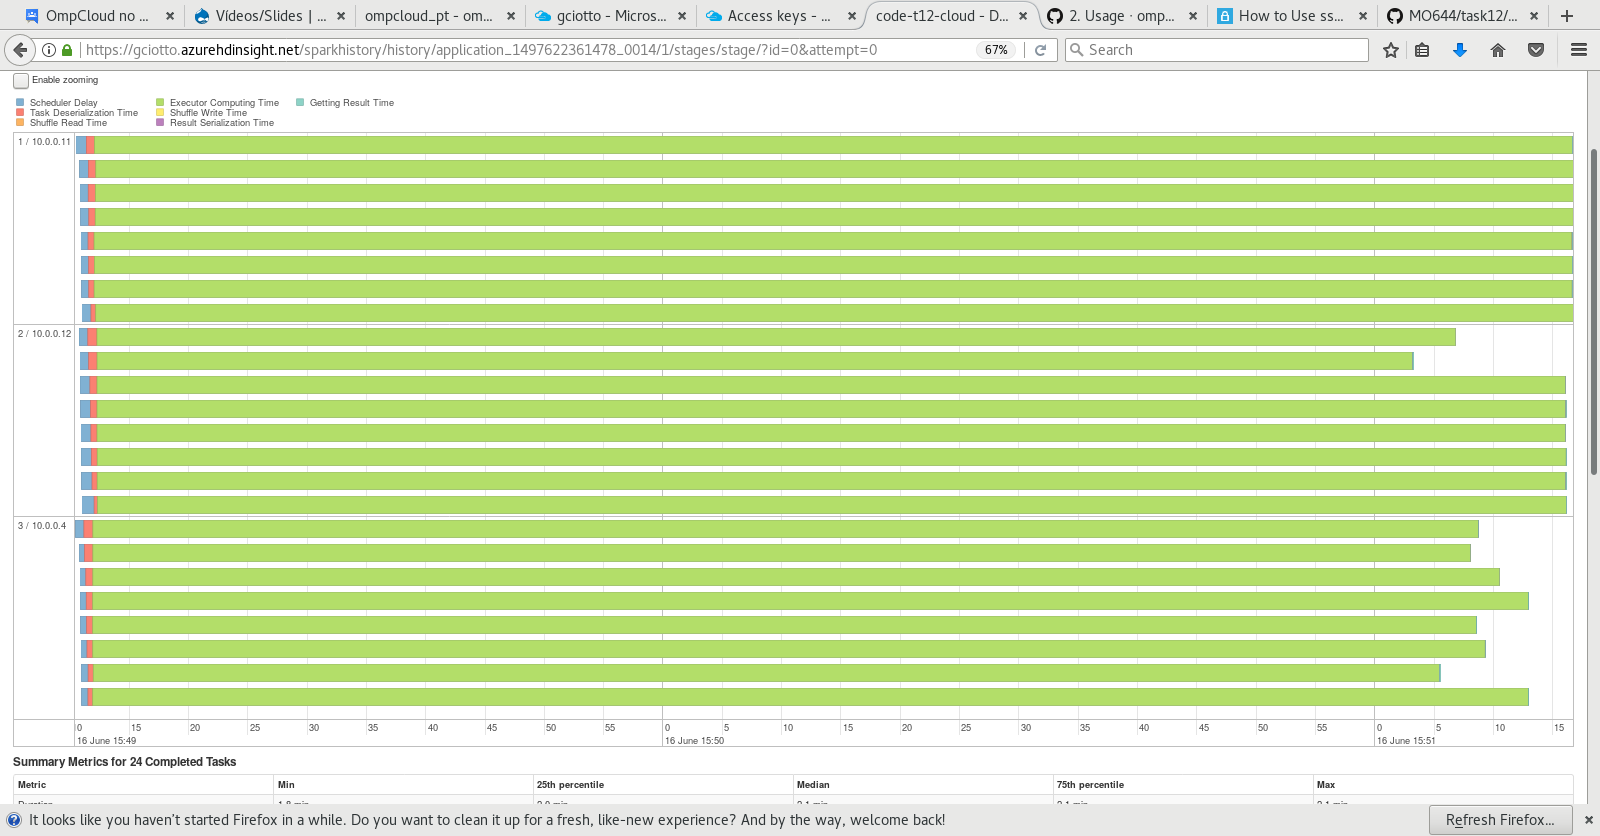
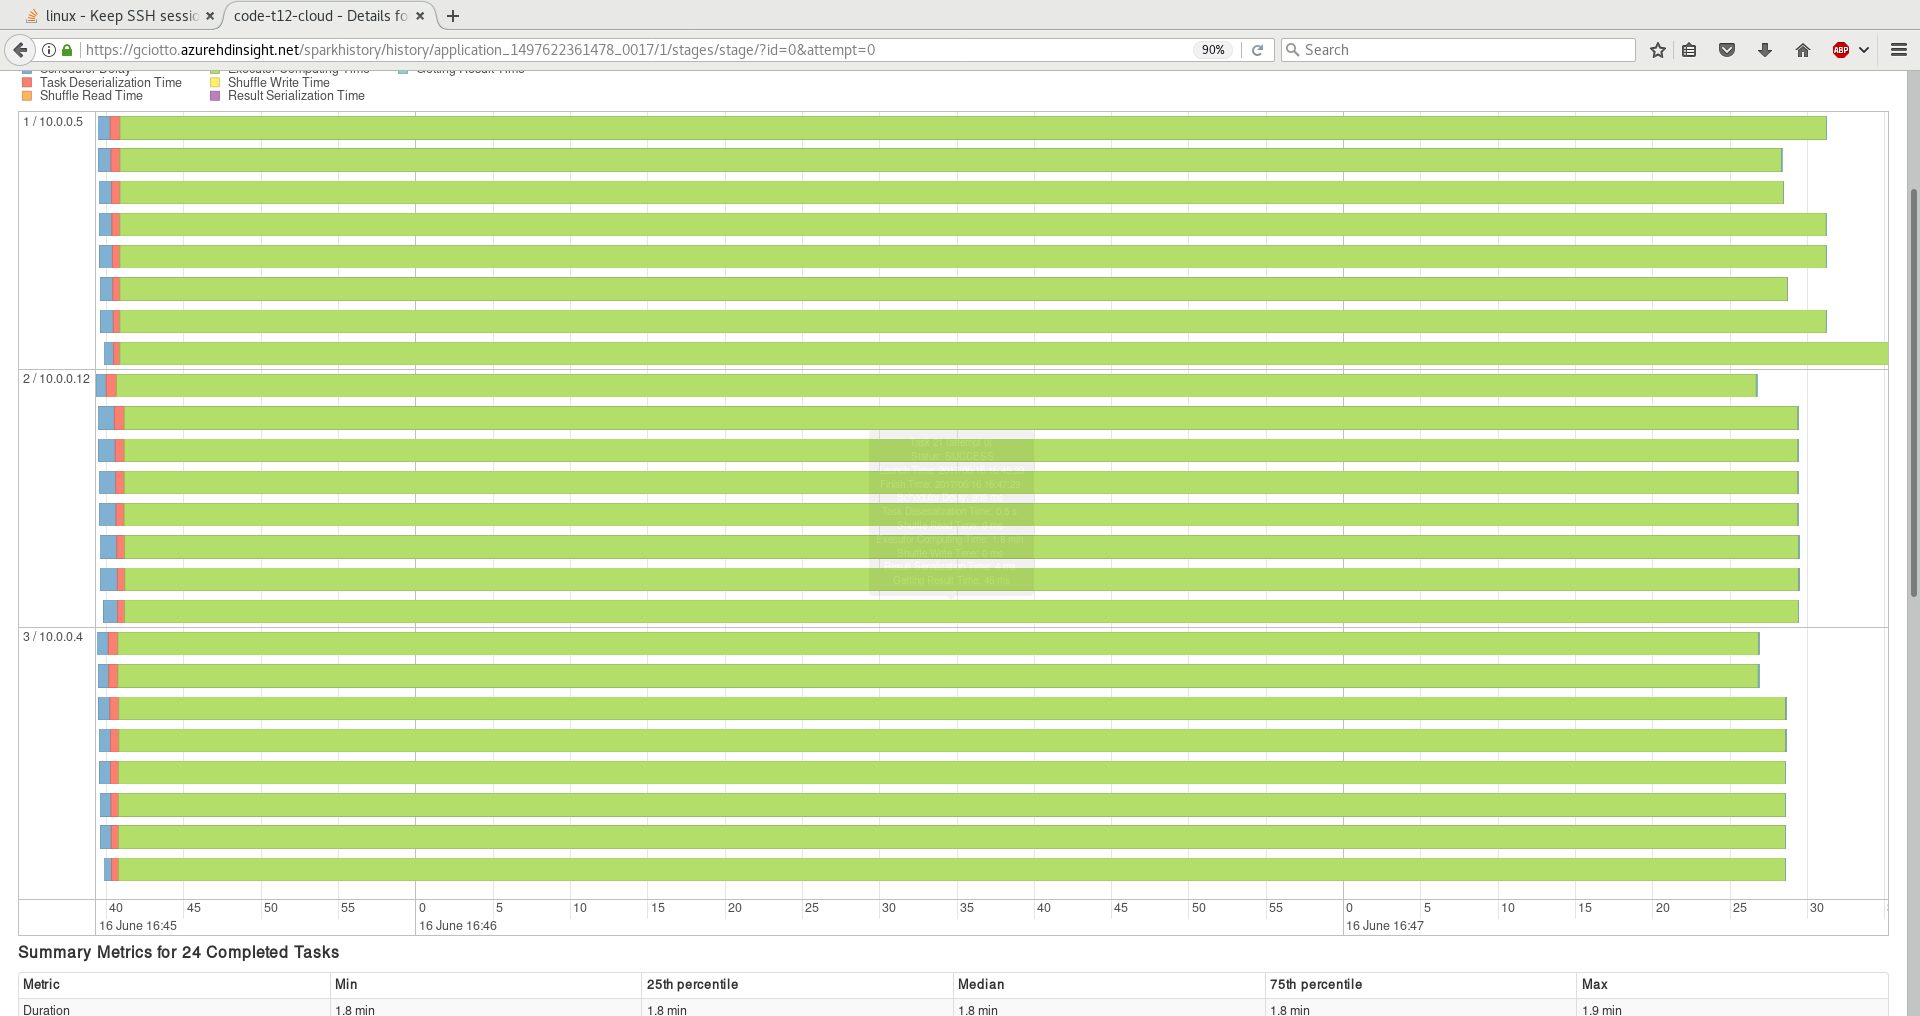
final version of the report

diff --git a/task12/report/document.tex b/task12/report/document.tex
@@ -21,45 +21,87 @@
 \section{Exercício}
 
 A tabela \ref{tab:resultados}, logo abaixo, contém dados de execuções variando
-\(N\) de 100 até 2500 para um \textit{cluster Spark} com 6 nós (2
-\textit{masters} e 4 \textit{workers}) criado no sul dos Estados Unidos. Tempos
-das execuções \textit{serial} e paralelo estão em segundos.
+\(N\) de 100 até 5000 para um \textit{cluster Spark} com 6 nós (2
+\textit{masters} e 4 \textit{workers}) criado no leste do Canadá, conforme
+figura \ref{fig:dashboard}. Todos os testes foram executados no
+\textit{parsusy} e os tempos das execuções \textit{serial} e paralelo estão
+representados em segundos. Adicionalmente, foram utilizadas as \textit{flags} \texttt{--executor-memory 15g}, \texttt{--driver-memory 15g},
+\texttt{--driver-cores 8} e \texttt{--executor-cores 8} para a configuração
+do ambiente de execução nos nós da \textit{cloud}.
 
 \begin{table}[h]
     \centering
 	\caption{\label{tab:resultados} Resultados obtidos para alguns valores de \(N\).} 
-	\begin{tabular}{| c | c | c | c | c | c | }
+	\begin{tabular}{| c | c | c | c | c | c | c | c |}
 		\hline
-		 & \textbf{100} & \textbf{1000} & \textbf{1500} & \textbf{2000} & \textbf{2500} \\ \hline 
-		 Serial (s) & 0.010548 & 6.135442 & 38.299340 & 57.142867 & 189.949704 \\\hline 
-		 Paralelo (s) & 65.886165 & 62.775086 & 76.901516 & 126.357308 & 162.322385 \\\hline 
-		 Speedup & 0.0003 & 0.097  & 0.498  & 0.452 & 1.170 \\\hline
+		 & \textbf{100} & \textbf{1000} & \textbf{1500} & \textbf{2000} &  \textbf{2500} & \textbf{3500} & \textbf{5000}\\\hline 
+		 Serial (s) & 0.015  & 8.294 & 31.459 & 87.655 & 251.407 & 861.234 & 2505.961 \\\hline 
+		 Paralelo (s) & 63.035 & 79.315 & 75.004 & 87.323 & 107.012 & 175.825 & 349.596 \\\hline 
+		 Speedup & 0.0002 & 0.105  & 0.419  & 1.004 & 2.349 & 4.898 & 7.168 \\\hline
 		
 	\end{tabular}
 \end{table}
 
+\begin{figure}[h!] 
+    \centering
+    \includegraphics[width=\textwidth]{img/dashboard}
+    \caption{Sumário do \textit{cluster} criado.}        
+    \label{fig:dashboard}
+\end{figure}
+
+
 Verifica-se, portanto, que os custos de \textit{offloading} (\textit{download}
 e \textit{upload} de dados para/da \textit{cloud}) não justificam o uso do
-OmpCloud para valores de \(N\) inferiores a 2500. Evidentemente, tal valor
-depende também da qualidade da conexão internet e da localidade das máquinas
+\textit{OmpCloud} para valores de \(N\) inferiores a 2000. Evidentemente, tal
+valor depende também da qualidade da conexão internet e da localidade das máquinas
 criadas no \textit{Azure}.
 
 \vspace{12pt}
 
-A figura \ref{fig:nodes} contém uma captura de tela da interface \textit{web} de
-monitoração do \textit{Spark} para a execução com \(N=1000\). É possível
-observar, através desta imagem, quais nós foram utilizados para o processamento.
+As figuras \ref{fig:nodes} e \ref{fig:event} são capturas de tela da
+interface \textit{web} de monitoração do \textit{Spark} para a execução com \(N=100\). É possível
+observar, através da primeira, quais nós foram utilizados para o processamento
+e qual deles foi usado como \textit{master} e, a partir da segunda, a fração de
+tempo em que cada fase correspondente à primeira claúsula \texttt{data map}
+levou para ser executada.
 
 \begin{figure}[h!] 
     \centering
-    \includegraphics[width=0.96\textwidth]{img/1000/nodes}
+    \includegraphics[width=\textwidth]{img/100/executors}
     \caption{Divisão das tarefas entre os nós do \textit{cluster}.}        
     \label{fig:nodes}
 \end{figure}
 
-Observa-se a presença de 6 nós, conforme esperado. Cinco deles agem como
-\textit{executor}, enquanto que o sexto, como \textit{driver} ou
-\textit{master}. Conclui-se, portanto, que um dos mestres torna-se um
-\textit{worker}, auxiliando, desta forma, nas tarefas de processamento.
+\begin{figure}[h!] 
+    \centering
+    \includegraphics[width=\textwidth]{img/100/event}
+    \caption{Fração de tempo consumida pelas tarefas da primeira claúsula
+    \texttt{data map} entre os nós do \textit{cluster} para \(N = 100\).}
+    \label{fig:event}
+\end{figure}
+
+Observa-se a presença de quatro nós neste caso. Três deles agem como
+\textit{executor}, enquanto que o quarto, como \textit{driver} ou
+\textit{master}.
+
+\vspace{12pt}
+
+A figura \ref{fig:event5000}, por sua vez, foi obtida para \(N = 7500\).
+Verifica-se que, em comparação com a imagem \ref{fig:event}, a fração correspondente ao tempo de
+computação (barra verde) para \( N = 7500\) é muito superior ao caso \(N =
+100\). Tal fato se traduz em um maior \textit{speedup} para o último caso,
+visto que um volume maior de cálculo é transferido da CPU para os
+nós da \textit{cloud}. Observa-se também, que o intervalo de
+\textit{offloading} é muito inferior àquele de computação, indicando, desta
+forma, que todo o \textit{overhead} de transferência de dados pode ser
+completamente justificado pelos ganhos produzidos pela computação distribuída.
+
+\begin{figure}[h!] 
+    \centering
+    \includegraphics[width=\textwidth]{img/7500/event}
+    \caption{Fração de tempo consumida pelas tarefas da primeira claúsula
+    \texttt{data map} entre os nós do \textit{cluster} para \(N = 7500\).}        
+    \label{fig:event5000}
+\end{figure}
 
 \end{document}
